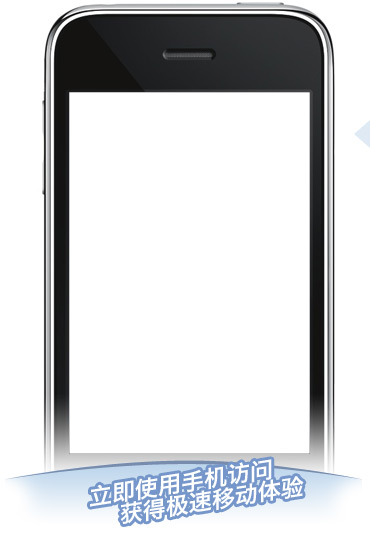
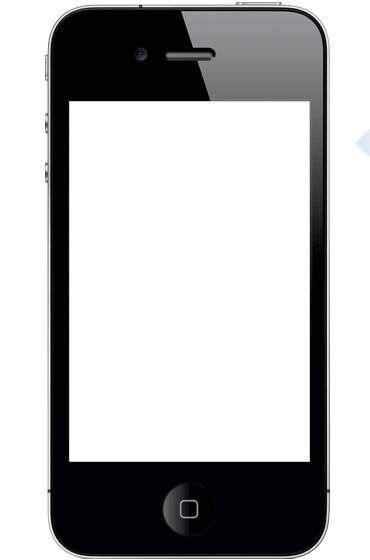
Preview mobile image (Chinese) replaced with universal image.

Changed region(s): [[0.0297, 0.0, 0.9514, 1.0], [0.9514, 0.2164, 1.0, 0.2782]]

diff --git a/discuzx2.0ML/upload/template/default/mobile/common/preview.htm b/discuzx2.0ML/upload/template/default/mobile/common/preview.htm
@@ -1,6 +1,6 @@
 <!--{subtemplate common/header}-->
 <div id="ct" class="wp cl ptw pbw">
-	<div class="z" style="width: 370px; height: 550px; background: url({STATICURL}image/mobile/preview.jpg) no-repeat 0 0;">
+	<div class="z" style="width: 370px; height: 560px; background: url({STATICURL}image/mobile/preview.jpg) no-repeat 0 0;">
 		<iframe id="ifm0" frameborder="0" width="240" height="360" style="margin: 69px 0 0 70px;" src="misc.php?mod=mobile&view=true"></iframe>
 	</div>
 	<div class="z" style="margin-top: 60px; width: 530px;">

diff --git a/discuzx2.0ML/upload/source/discuz_version.php b/discuzx2.0ML/upload/source/discuz_version.php
@@ -14,7 +14,7 @@ if(!defined('IN_DISCUZ')) {
 if(!defined('DISCUZ_VERSION')) {
 	define('DISCUZ_VERSION', 'X2');
 	define('DISCUZ_RELEASE', '20120329');
-	define('DISCUZ_ML_REVISION', '390');
+	define('DISCUZ_ML_REVISION', '391');
 }
 
 ?>
